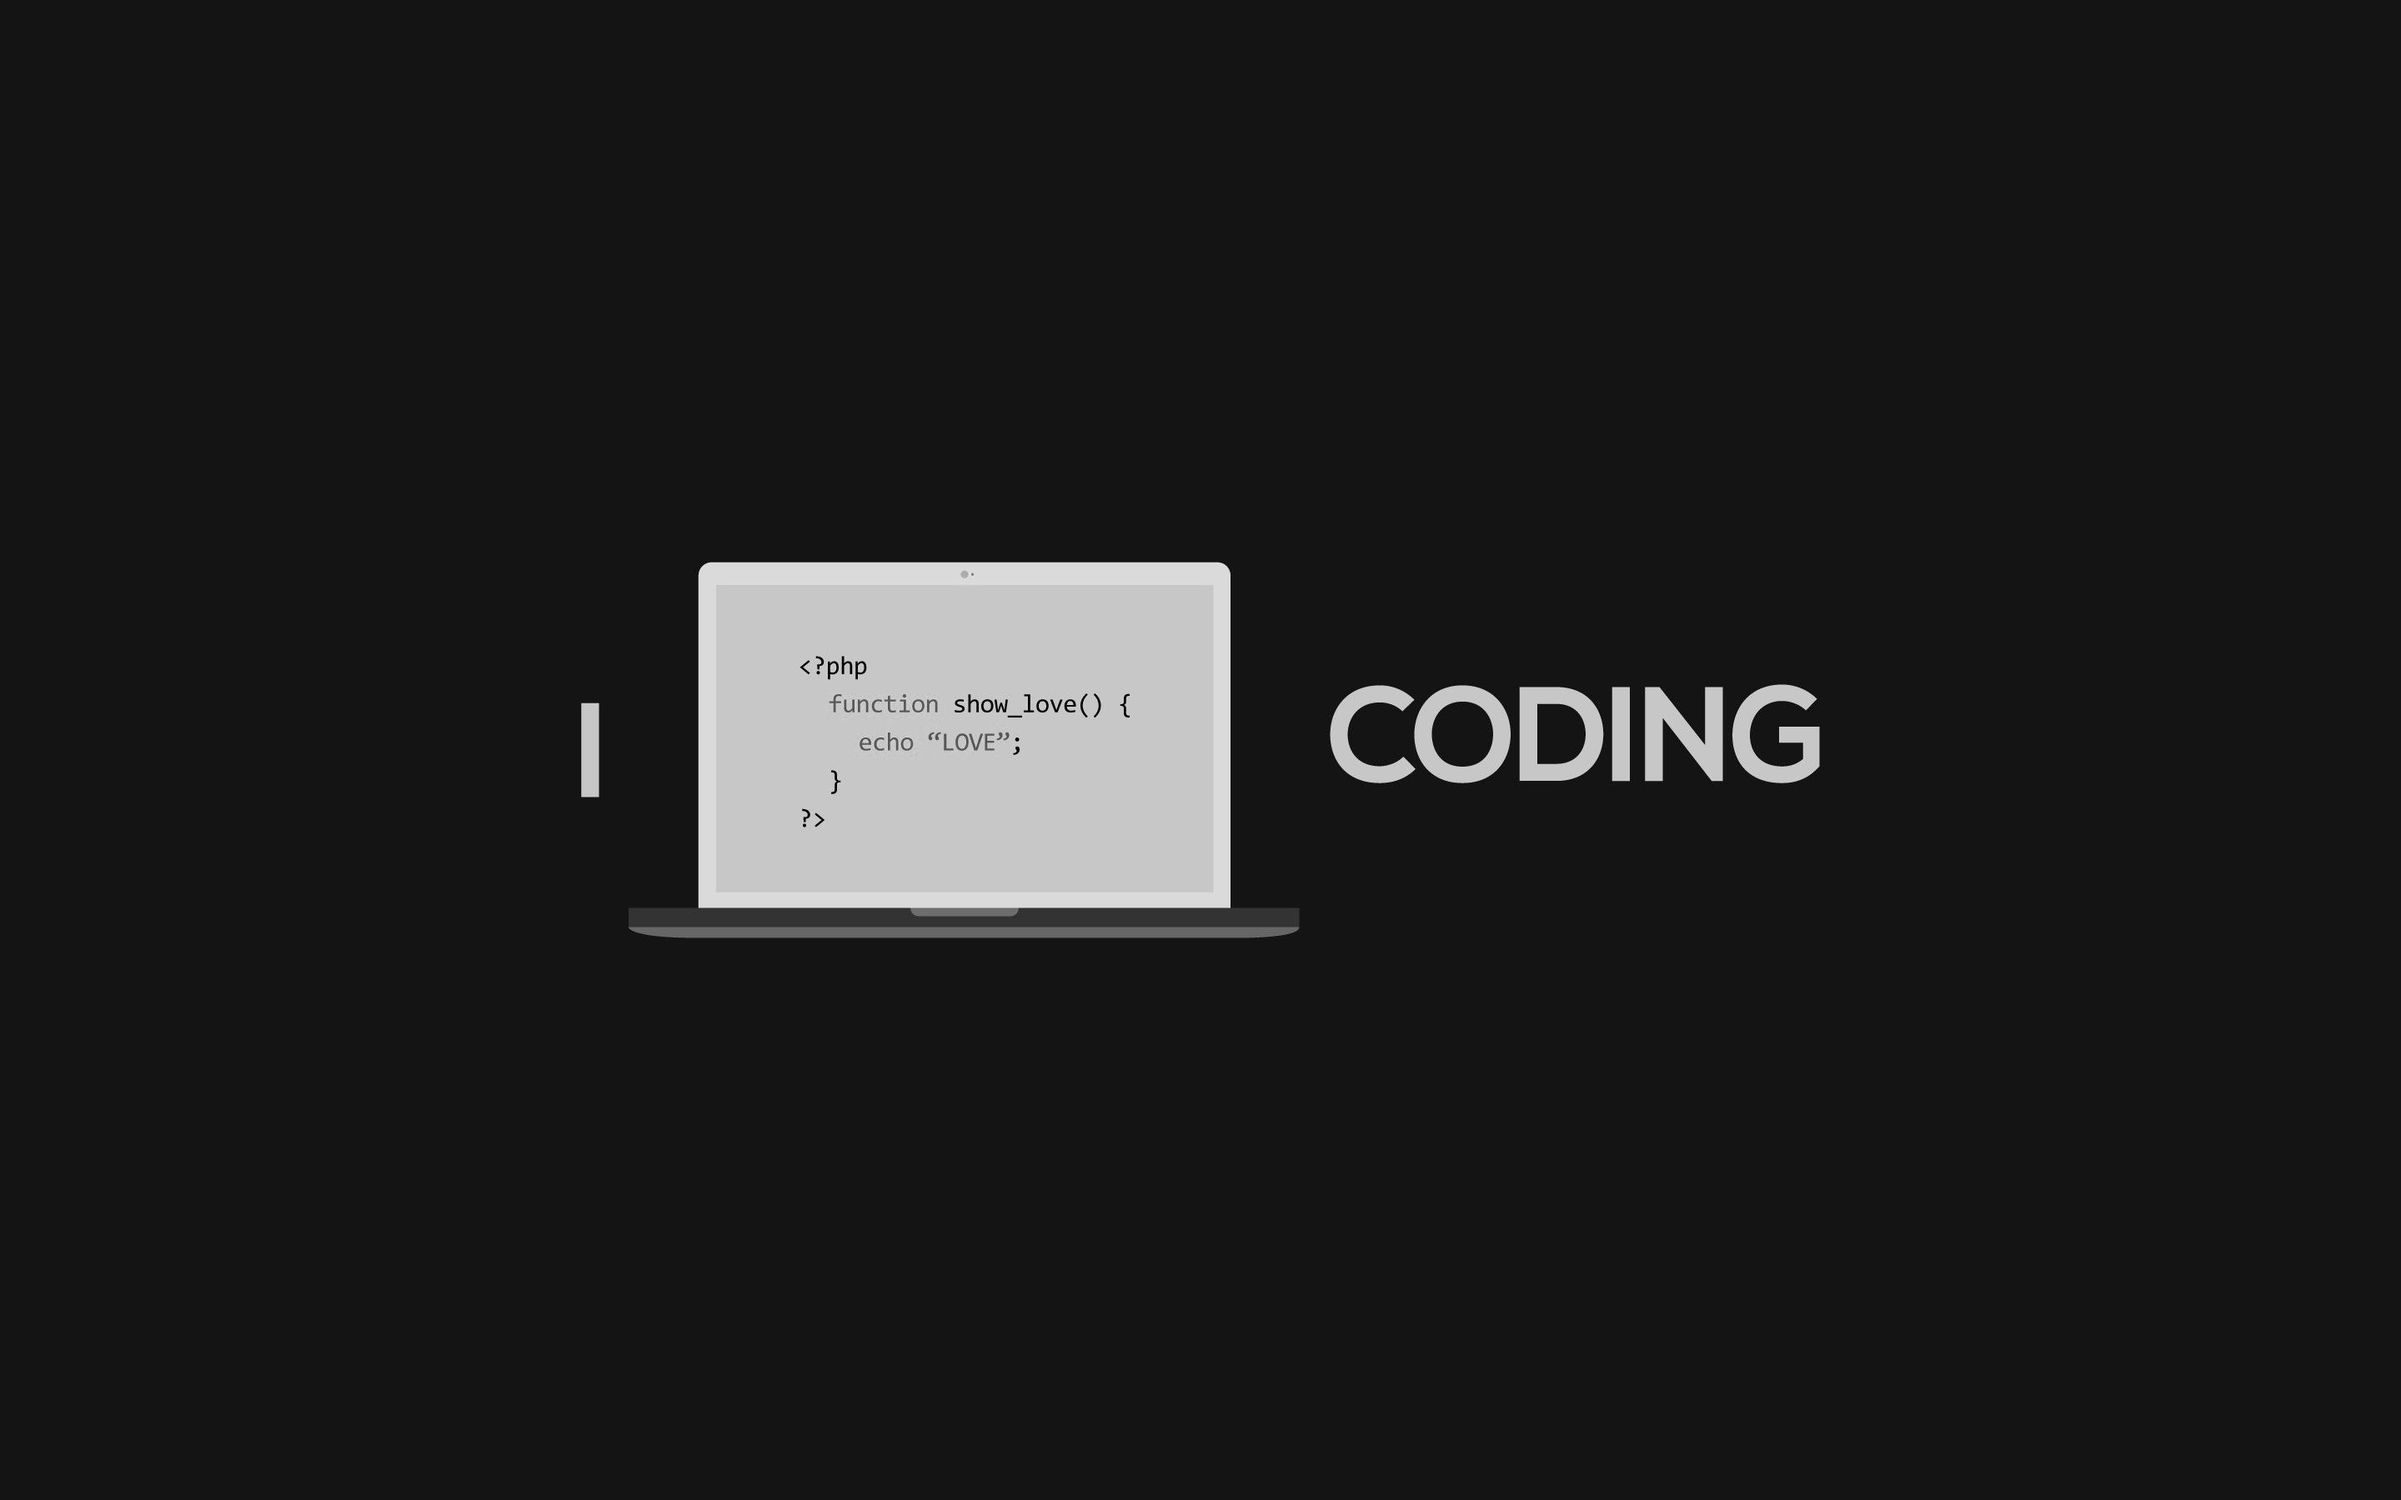
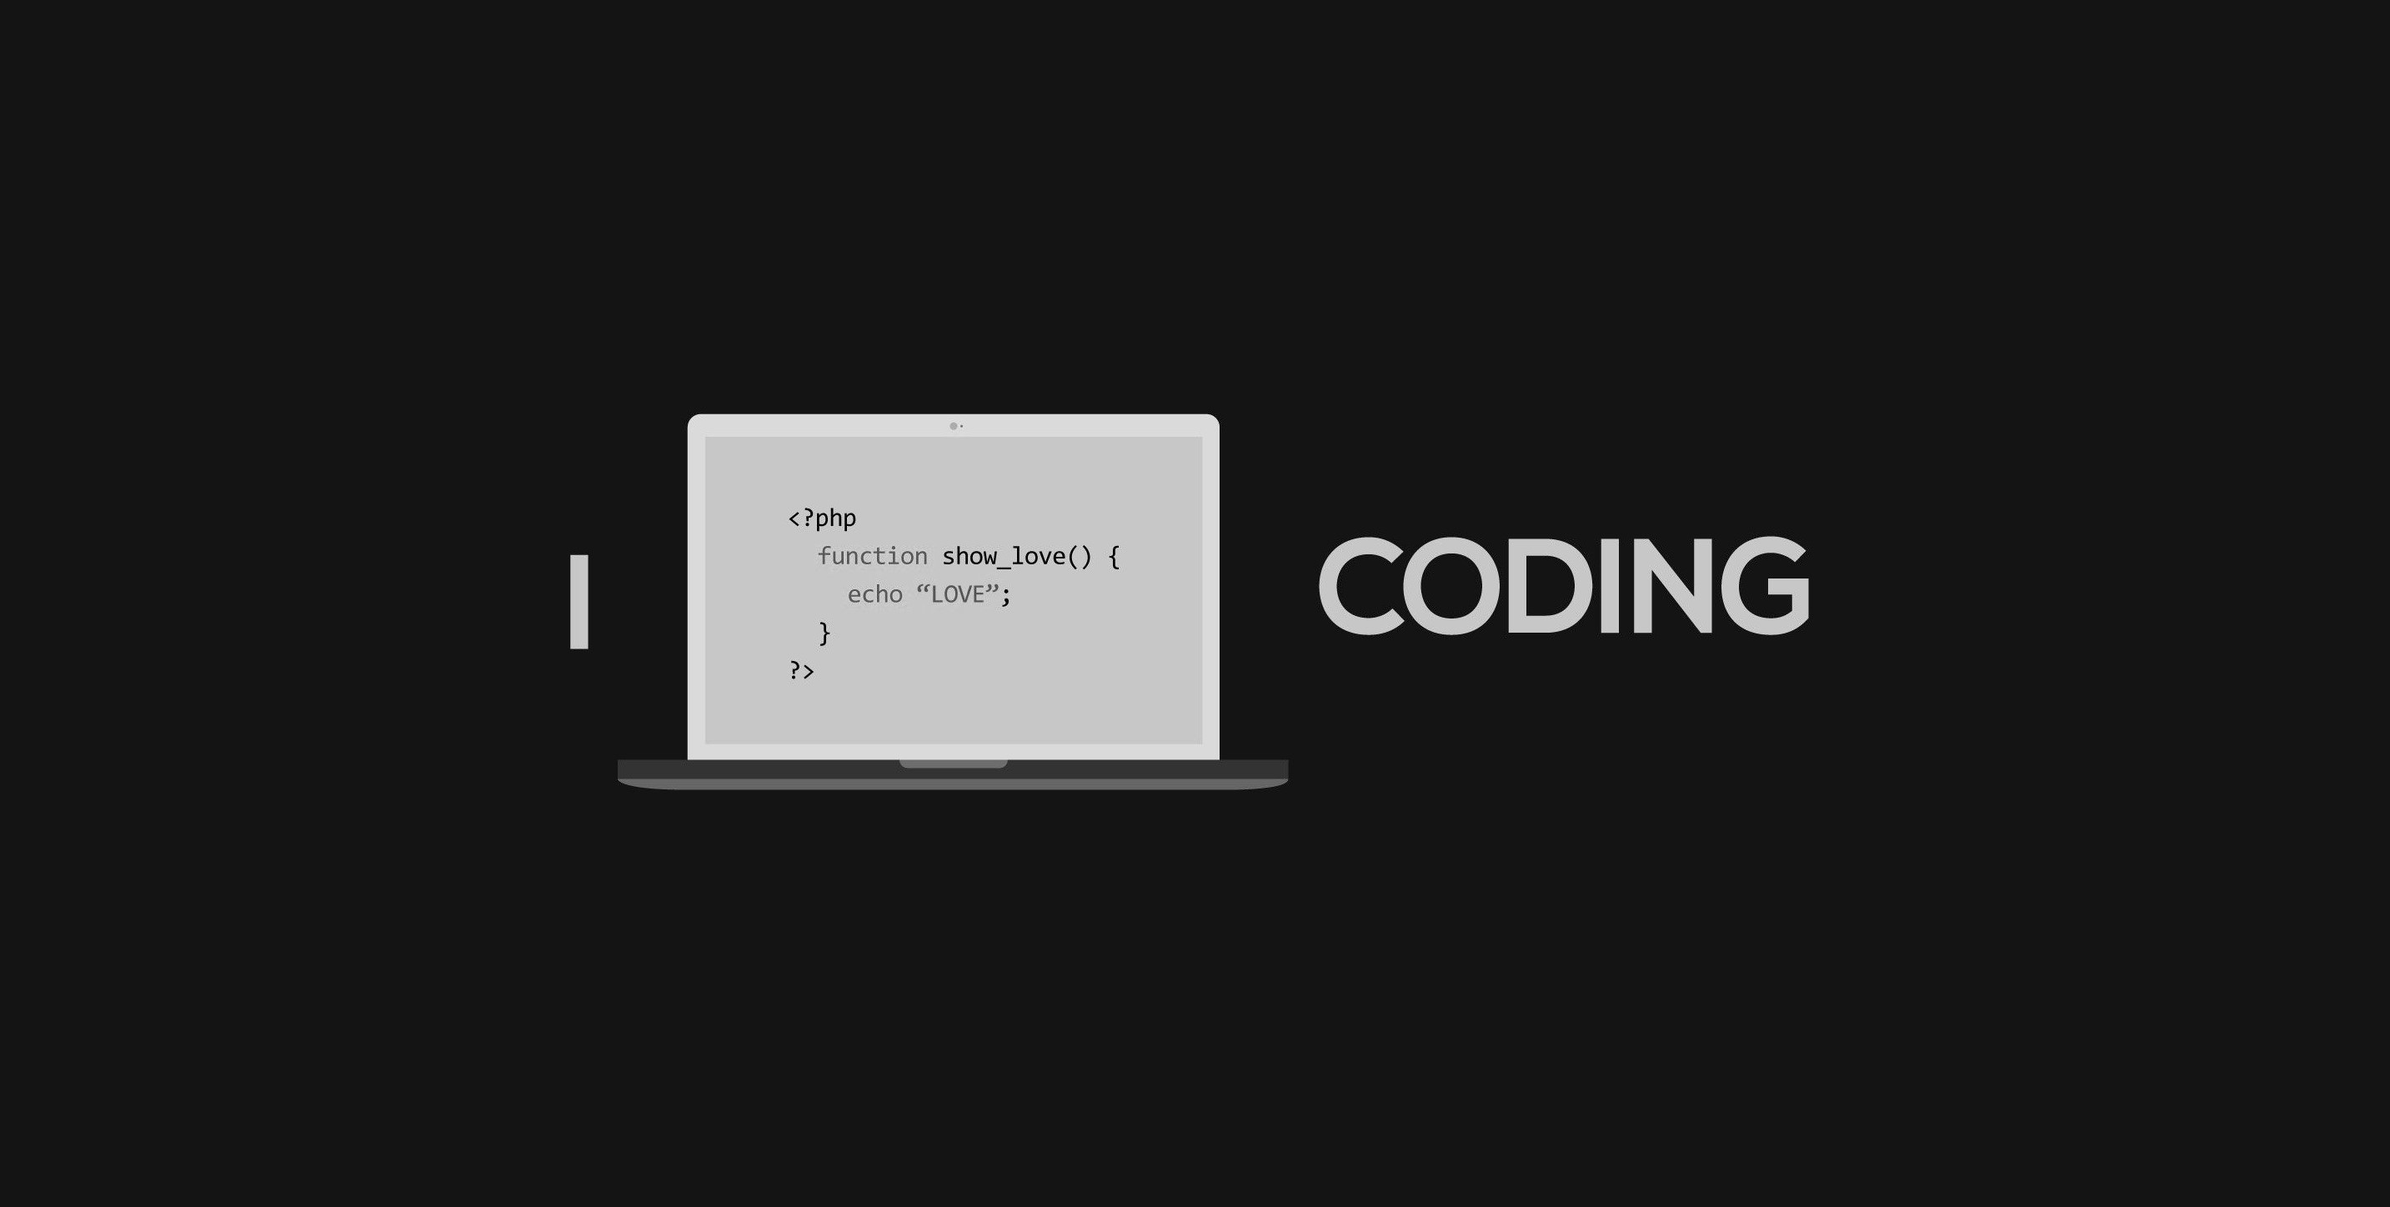
Image fixed.

diff --git a/index.htm b/index.htm
@@ -31,7 +31,7 @@
 
     <!-- Home -->
     <div class="home">
-      <img src="assets/coding.jpg" width="100%" style="margin-top: -70px;">
+      <img src="assets/coding.jpg" width="100%">
     </div>
 
     <!-- Login -->
